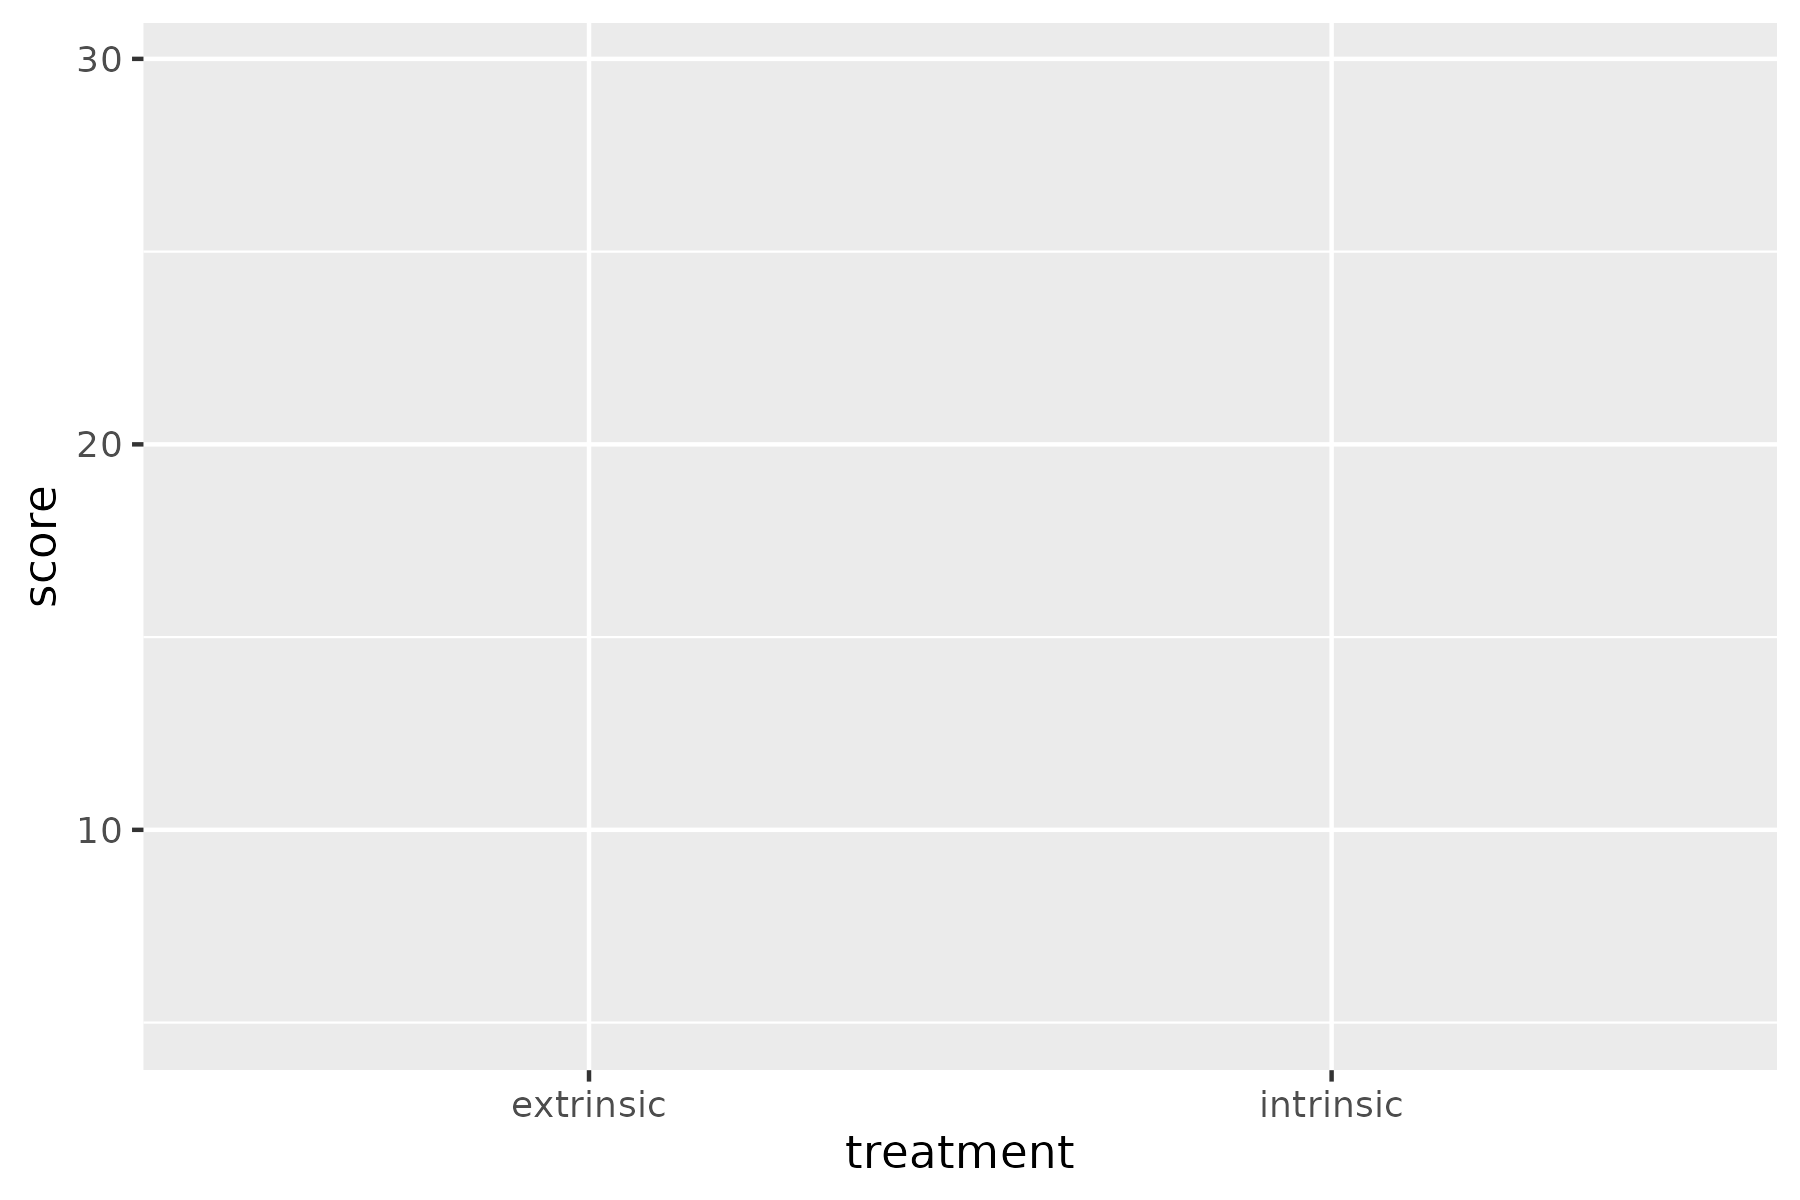
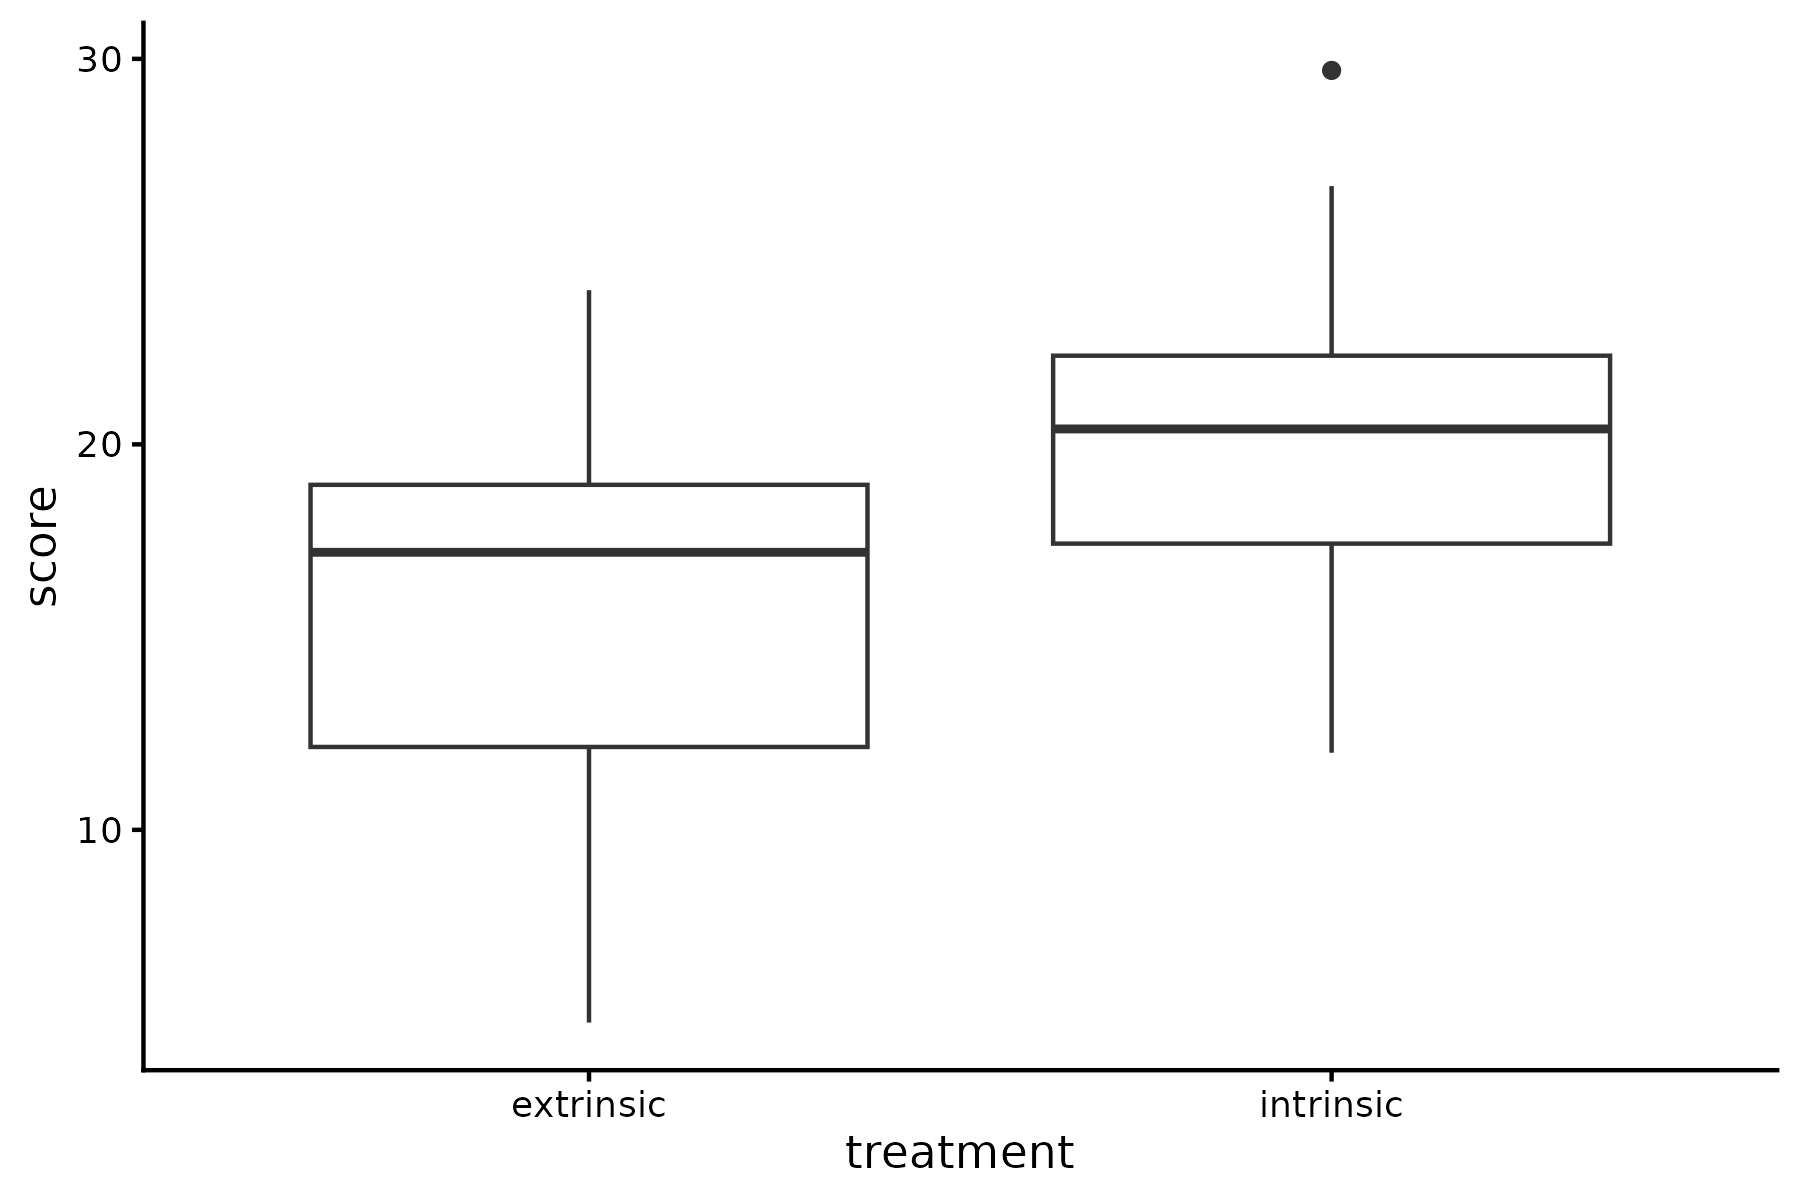
Adjusted ggsave for HW1

diff --git a/docs/labs/lab01_creativity.html b/docs/labs/lab01_creativity.html
@@ -577,25 +577,34 @@ Attaching package: 'dplyr'</code></pre>
 `stat_bin()` using `bins = 30`. Pick better value `binwidth`.</code></pre>
 </div>
 </div>
-<p>Save a template plot:</p>
+<p>Save a plot for HW1 submission:</p>
 <div class="cell">
-<div class="code-copy-outer-scaffold"><div class="sourceCode cell-code" id="cb45"><pre class="sourceCode r code-with-copy"><code class="sourceCode r"><span id="cb45-1"><a href="#cb45-1" aria-hidden="true" tabindex="-1"></a><span class="fu">ggsave</span>(<span class="st">"creativity_boxplot.png"</span>, <span class="at">plot =</span> creativity_setup2, </span>
-<span id="cb45-2"><a href="#cb45-2" aria-hidden="true" tabindex="-1"></a>       <span class="at">width =</span> <span class="dv">6</span>, <span class="at">height =</span> <span class="dv">4</span>, <span class="at">dpi =</span> <span class="dv">300</span>)</span></code></pre></div><button title="Copy to Clipboard" class="code-copy-button"><i class="bi"></i></button></div>
+<div class="code-copy-outer-scaffold"><div class="sourceCode cell-code" id="cb45"><pre class="sourceCode r code-with-copy"><code class="sourceCode r"><span id="cb45-1"><a href="#cb45-1" aria-hidden="true" tabindex="-1"></a>creativity_setup2 <span class="sc">+</span> </span>
+<span id="cb45-2"><a href="#cb45-2" aria-hidden="true" tabindex="-1"></a>    <span class="fu">geom_boxplot</span>() <span class="sc">+</span></span>
+<span id="cb45-3"><a href="#cb45-3" aria-hidden="true" tabindex="-1"></a>    <span class="fu">theme_classic</span>()</span></code></pre></div><button title="Copy to Clipboard" class="code-copy-button"><i class="bi"></i></button></div>
+<div class="cell-output-display">
+<div>
+<figure class="figure">
+<p><img src="lab01_creativity_files/figure-html/unnamed-chunk-26-1.png" class="img-fluid figure-img" width="672"></p>
+</figure>
+</div>
+</div>
+<div class="code-copy-outer-scaffold"><div class="sourceCode cell-code" id="cb46"><pre class="sourceCode r code-with-copy"><code class="sourceCode r"><span id="cb46-1"><a href="#cb46-1" aria-hidden="true" tabindex="-1"></a><span class="fu">ggsave</span>(<span class="st">"creativity_boxplot.png"</span>, <span class="at">width =</span> <span class="dv">6</span>, <span class="at">height =</span> <span class="dv">4</span>, <span class="at">dpi =</span> <span class="dv">300</span>)</span></code></pre></div><button title="Copy to Clipboard" class="code-copy-button"><i class="bi"></i></button></div>
 </div>
 </section>
 <section id="self-assessment" class="level3">
 <h3 class="anchored" data-anchor-id="self-assessment">Self-Assessment</h3>
 <p>Read tomato.csv</p>
 <div class="cell">
-<div class="code-copy-outer-scaffold"><div class="sourceCode cell-code" id="cb46"><pre class="sourceCode r code-with-copy"><code class="sourceCode r"><span id="cb46-1"><a href="#cb46-1" aria-hidden="true" tabindex="-1"></a>tomato_df <span class="ot">&lt;-</span> <span class="fu">read.csv</span>(<span class="st">"../data/tomato.csv"</span>)</span>
-<span id="cb46-2"><a href="#cb46-2" aria-hidden="true" tabindex="-1"></a><span class="fu">names</span>(tomato_df)</span></code></pre></div><button title="Copy to Clipboard" class="code-copy-button"><i class="bi"></i></button></div>
+<div class="code-copy-outer-scaffold"><div class="sourceCode cell-code" id="cb47"><pre class="sourceCode r code-with-copy"><code class="sourceCode r"><span id="cb47-1"><a href="#cb47-1" aria-hidden="true" tabindex="-1"></a>tomato_df <span class="ot">&lt;-</span> <span class="fu">read.csv</span>(<span class="st">"../data/tomato.csv"</span>)</span>
+<span id="cb47-2"><a href="#cb47-2" aria-hidden="true" tabindex="-1"></a><span class="fu">names</span>(tomato_df)</span></code></pre></div><button title="Copy to Clipboard" class="code-copy-button"><i class="bi"></i></button></div>
 <div class="cell-output cell-output-stdout">
 <pre><code>[1] "treatment" "yield"    </code></pre>
 </div>
 </div>
 <p>View the first 6 records</p>
 <div class="cell">
-<div class="code-copy-outer-scaffold"><div class="sourceCode cell-code" id="cb48"><pre class="sourceCode r code-with-copy"><code class="sourceCode r"><span id="cb48-1"><a href="#cb48-1" aria-hidden="true" tabindex="-1"></a><span class="fu">head</span>(tomato_df)</span></code></pre></div><button title="Copy to Clipboard" class="code-copy-button"><i class="bi"></i></button></div>
+<div class="code-copy-outer-scaffold"><div class="sourceCode cell-code" id="cb49"><pre class="sourceCode r code-with-copy"><code class="sourceCode r"><span id="cb49-1"><a href="#cb49-1" aria-hidden="true" tabindex="-1"></a><span class="fu">head</span>(tomato_df)</span></code></pre></div><button title="Copy to Clipboard" class="code-copy-button"><i class="bi"></i></button></div>
 <div class="cell-output cell-output-stdout">
 <pre><code>  treatment yield
 1         a  0.39
@@ -608,9 +617,9 @@ Attaching package: 'dplyr'</code></pre>
 </div>
 <p>Draw side-by-side box plots of each yield for each of the two fertilizers</p>
 <div class="cell">
-<div class="code-copy-outer-scaffold"><div class="sourceCode cell-code" id="cb50"><pre class="sourceCode r code-with-copy"><code class="sourceCode r"><span id="cb50-1"><a href="#cb50-1" aria-hidden="true" tabindex="-1"></a><span class="fu">ggplot</span>(<span class="at">data =</span> tomato_df, <span class="at">mapping =</span> <span class="fu">aes</span>(<span class="at">x =</span> treatment, <span class="at">y =</span> yield)) <span class="sc">+</span></span>
-<span id="cb50-2"><a href="#cb50-2" aria-hidden="true" tabindex="-1"></a>    <span class="fu">geom_boxplot</span>() <span class="sc">+</span></span>
-<span id="cb50-3"><a href="#cb50-3" aria-hidden="true" tabindex="-1"></a>    <span class="fu">theme_classic</span>()</span></code></pre></div><button title="Copy to Clipboard" class="code-copy-button"><i class="bi"></i></button></div>
+<div class="code-copy-outer-scaffold"><div class="sourceCode cell-code" id="cb51"><pre class="sourceCode r code-with-copy"><code class="sourceCode r"><span id="cb51-1"><a href="#cb51-1" aria-hidden="true" tabindex="-1"></a><span class="fu">ggplot</span>(<span class="at">data =</span> tomato_df, <span class="at">mapping =</span> <span class="fu">aes</span>(<span class="at">x =</span> treatment, <span class="at">y =</span> yield)) <span class="sc">+</span></span>
+<span id="cb51-2"><a href="#cb51-2" aria-hidden="true" tabindex="-1"></a>    <span class="fu">geom_boxplot</span>() <span class="sc">+</span></span>
+<span id="cb51-3"><a href="#cb51-3" aria-hidden="true" tabindex="-1"></a>    <span class="fu">theme_classic</span>()</span></code></pre></div><button title="Copy to Clipboard" class="code-copy-button"><i class="bi"></i></button></div>
 <div class="cell-output-display">
 <div>
 <figure class="figure">
@@ -621,18 +630,18 @@ Attaching package: 'dplyr'</code></pre>
 </div>
 <p>Estimate the difference in mean yield between the two fertilizers (a - b). Include units.</p>
 <div class="cell">
-<div class="code-copy-outer-scaffold"><div class="sourceCode cell-code" id="cb51"><pre class="sourceCode r code-with-copy"><code class="sourceCode r"><span id="cb51-1"><a href="#cb51-1" aria-hidden="true" tabindex="-1"></a>mean_a <span class="ot">=</span> tomato_df <span class="sc">|&gt;</span> <span class="fu">filter</span>(treatment <span class="sc">==</span> <span class="st">"a"</span>) <span class="sc">|&gt;</span> <span class="fu">pull</span>(yield) <span class="sc">|&gt;</span> <span class="fu">mean</span>()</span>
-<span id="cb51-2"><a href="#cb51-2" aria-hidden="true" tabindex="-1"></a>mean_b <span class="ot">=</span> tomato_df <span class="sc">|&gt;</span> <span class="fu">filter</span>(treatment <span class="sc">==</span> <span class="st">"b"</span>) <span class="sc">|&gt;</span> <span class="fu">pull</span>(yield) <span class="sc">|&gt;</span> <span class="fu">mean</span>()</span>
-<span id="cb51-3"><a href="#cb51-3" aria-hidden="true" tabindex="-1"></a><span class="fu">paste</span>(<span class="st">"Mean difference: "</span>, <span class="fu">round</span>(mean_a <span class="sc">-</span> mean_b, <span class="dv">2</span>), <span class="st">"pounds"</span>)</span></code></pre></div><button title="Copy to Clipboard" class="code-copy-button"><i class="bi"></i></button></div>
+<div class="code-copy-outer-scaffold"><div class="sourceCode cell-code" id="cb52"><pre class="sourceCode r code-with-copy"><code class="sourceCode r"><span id="cb52-1"><a href="#cb52-1" aria-hidden="true" tabindex="-1"></a>mean_a <span class="ot">=</span> tomato_df <span class="sc">|&gt;</span> <span class="fu">filter</span>(treatment <span class="sc">==</span> <span class="st">"a"</span>) <span class="sc">|&gt;</span> <span class="fu">pull</span>(yield) <span class="sc">|&gt;</span> <span class="fu">mean</span>()</span>
+<span id="cb52-2"><a href="#cb52-2" aria-hidden="true" tabindex="-1"></a>mean_b <span class="ot">=</span> tomato_df <span class="sc">|&gt;</span> <span class="fu">filter</span>(treatment <span class="sc">==</span> <span class="st">"b"</span>) <span class="sc">|&gt;</span> <span class="fu">pull</span>(yield) <span class="sc">|&gt;</span> <span class="fu">mean</span>()</span>
+<span id="cb52-3"><a href="#cb52-3" aria-hidden="true" tabindex="-1"></a><span class="fu">paste</span>(<span class="st">"Mean difference: "</span>, <span class="fu">round</span>(mean_a <span class="sc">-</span> mean_b, <span class="dv">2</span>), <span class="st">"pounds"</span>)</span></code></pre></div><button title="Copy to Clipboard" class="code-copy-button"><i class="bi"></i></button></div>
 <div class="cell-output cell-output-stdout">
 <pre><code>[1] "Mean difference:  6.53 pounds"</code></pre>
 </div>
 </div>
 <p>Estimate the difference between in median yield the two fertilizers (a - b). Include units.</p>
 <div class="cell">
-<div class="code-copy-outer-scaffold"><div class="sourceCode cell-code" id="cb53"><pre class="sourceCode r code-with-copy"><code class="sourceCode r"><span id="cb53-1"><a href="#cb53-1" aria-hidden="true" tabindex="-1"></a>median_a <span class="ot">=</span> tomato_df <span class="sc">|&gt;</span> <span class="fu">filter</span>(treatment <span class="sc">==</span> <span class="st">"a"</span>) <span class="sc">|&gt;</span> <span class="fu">pull</span>(yield) <span class="sc">|&gt;</span> <span class="fu">median</span>()</span>
-<span id="cb53-2"><a href="#cb53-2" aria-hidden="true" tabindex="-1"></a>median_b <span class="ot">=</span> tomato_df <span class="sc">|&gt;</span> <span class="fu">filter</span>(treatment <span class="sc">==</span> <span class="st">"b"</span>) <span class="sc">|&gt;</span> <span class="fu">pull</span>(yield) <span class="sc">|&gt;</span> <span class="fu">median</span>()</span>
-<span id="cb53-3"><a href="#cb53-3" aria-hidden="true" tabindex="-1"></a><span class="fu">paste</span>(<span class="st">"Median difference: "</span>, <span class="fu">round</span>(median_a <span class="sc">-</span> median_b, <span class="dv">2</span>), <span class="st">"pounds"</span>)</span></code></pre></div><button title="Copy to Clipboard" class="code-copy-button"><i class="bi"></i></button></div>
+<div class="code-copy-outer-scaffold"><div class="sourceCode cell-code" id="cb54"><pre class="sourceCode r code-with-copy"><code class="sourceCode r"><span id="cb54-1"><a href="#cb54-1" aria-hidden="true" tabindex="-1"></a>median_a <span class="ot">=</span> tomato_df <span class="sc">|&gt;</span> <span class="fu">filter</span>(treatment <span class="sc">==</span> <span class="st">"a"</span>) <span class="sc">|&gt;</span> <span class="fu">pull</span>(yield) <span class="sc">|&gt;</span> <span class="fu">median</span>()</span>
+<span id="cb54-2"><a href="#cb54-2" aria-hidden="true" tabindex="-1"></a>median_b <span class="ot">=</span> tomato_df <span class="sc">|&gt;</span> <span class="fu">filter</span>(treatment <span class="sc">==</span> <span class="st">"b"</span>) <span class="sc">|&gt;</span> <span class="fu">pull</span>(yield) <span class="sc">|&gt;</span> <span class="fu">median</span>()</span>
+<span id="cb54-3"><a href="#cb54-3" aria-hidden="true" tabindex="-1"></a><span class="fu">paste</span>(<span class="st">"Median difference: "</span>, <span class="fu">round</span>(median_a <span class="sc">-</span> median_b, <span class="dv">2</span>), <span class="st">"pounds"</span>)</span></code></pre></div><button title="Copy to Clipboard" class="code-copy-button"><i class="bi"></i></button></div>
 <div class="cell-output cell-output-stdout">
 <pre><code>[1] "Median difference:  4.64 pounds"</code></pre>
 </div>